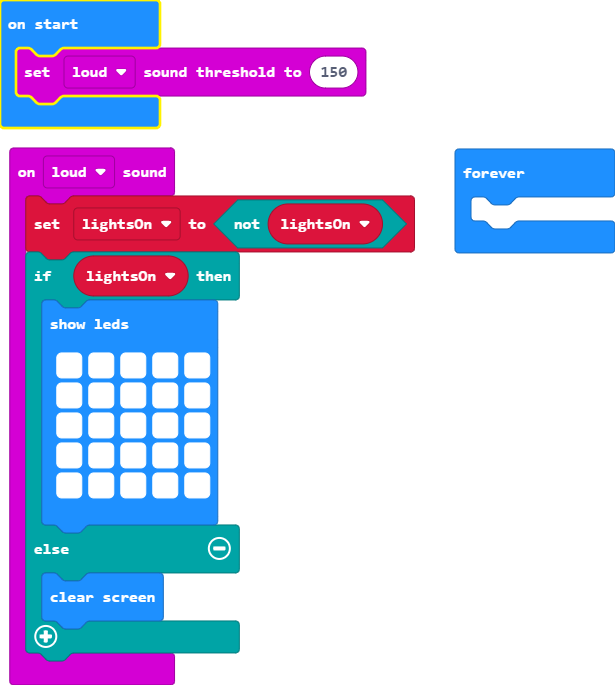
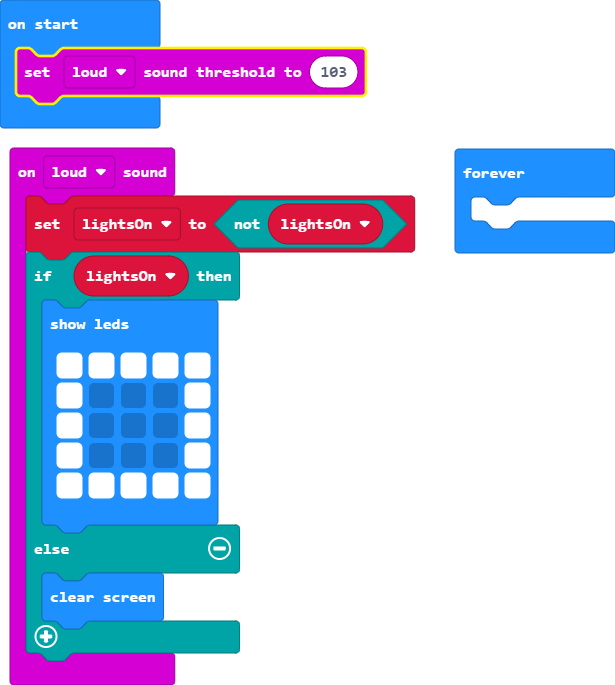
Bugs Fixed

diff --git a/main.ts b/main.ts
@@ -3,9 +3,9 @@ input.onSound(DetectedSound.Loud, function () {
     if (lightsOn) {
         basic.showLeds(`
             # # # # #
-            # # # # #
-            # # # # #
-            # # # # #
+            # . . . #
+            # . . . #
+            # . . . #
             # # # # #
             `)
     } else {
@@ -13,7 +13,7 @@ input.onSound(DetectedSound.Loud, function () {
     }
 })
 let lightsOn = false
-input.setSoundThreshold(SoundThreshold.Loud, 150)
+input.setSoundThreshold(SoundThreshold.Loud, 103)
 basic.forever(function () {
 	
 })
